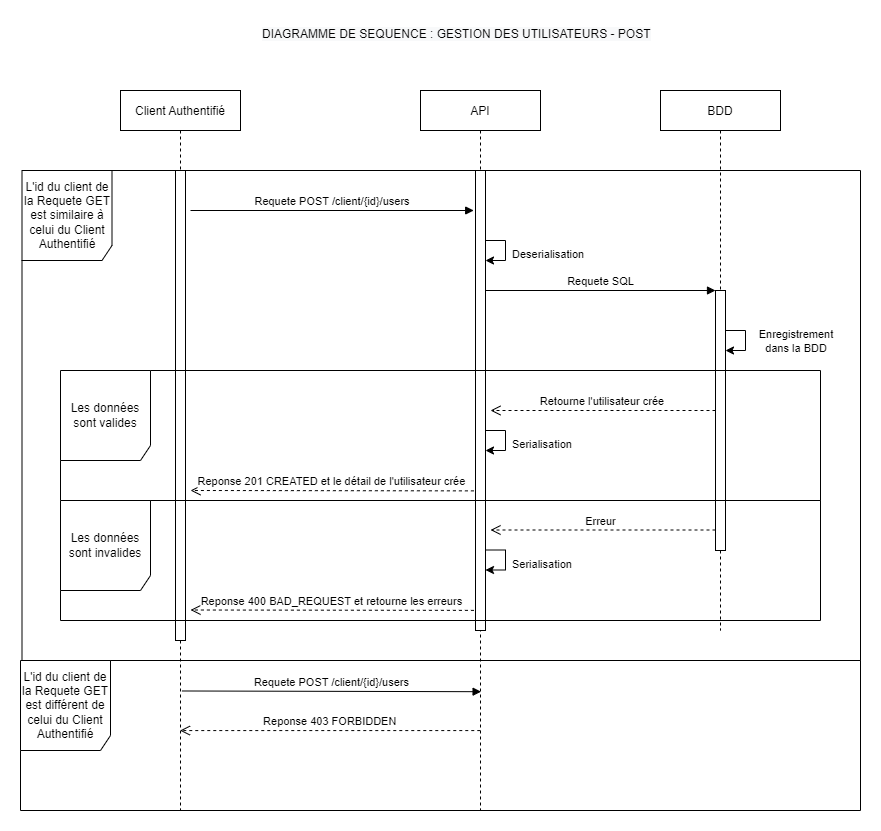
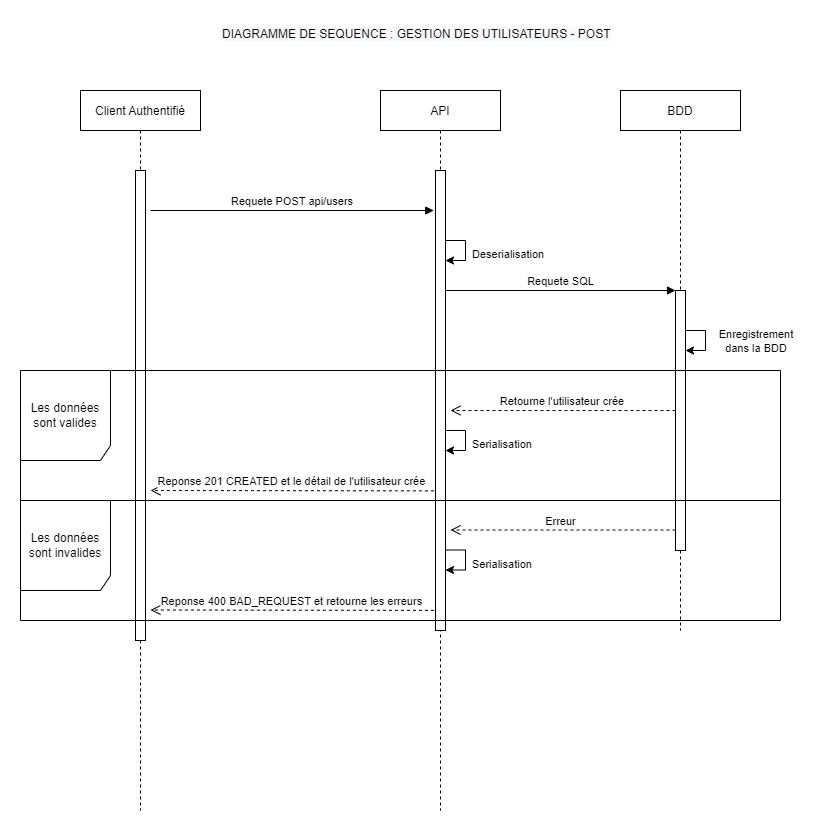
Update Diagrams UML FIX #13

diff --git a/src/Controller/UserController.php b/src/Controller/UserController.php
@@ -17,15 +17,21 @@ use Symfony\Component\Validator\Validator\ValidatorInterface;
 #[Route('/api')]
 class UserController extends AbstractController
 {
-    #[Route('/users', name: 'app_collection_user', methods: ['GET'])]
-    public function list(UserRepository $userRepository): JsonResponse
+    #[Route('/users', name: 'user_list', methods: ['GET'])]
+    public function list(Request $request, UserRepository $userRepository): JsonResponse
     {
-        /* faire la pagination , et niveau 3 de Richardson ( negociation ?? ) */
-        $users = $userRepository->findBy(['client' => $this->getUser()]);
+        $page = $request->query->get('page') ?? 1 ;
+        $usersCount = $userRepository->count(['client' => $this->getUser()]);
+        $pageCount = round($usersCount/12);
+        if($usersCount % 12 != 0){$pageCount++;}
+        if ($pageCount < $request->query->get('page')) {
+            $page = 1 ;
+        }
+        $users = $userRepository->findBy(['client' => $this->getUser()], ['id' => 'ASC'], 12, ($page-1)*12);
         return $this->json($users, JsonResponse::HTTP_OK, [], ['groups' => 'list_user']);
     }
 
-    #[Route('/users/{user_id}', name: 'app_item_user', methods: ['GET'])]
+    #[Route('/users/{user_id}', name: 'user_show', methods: ['GET'])]
     #[Entity('user', options: ['id' => 'user_id'])]
     public function show(User $user): JsonResponse
     {
@@ -36,19 +42,13 @@ class UserController extends AbstractController
         return $this->json($user, JsonResponse::HTTP_OK, [], ['groups' => 'show_user']);
     }
 
-    #[Route('/users', name: 'app_create_user', methods: ['POST'])]
+    #[Route('/users', name: 'user_create', methods: ['POST'])]
     public function create(
         SerializerInterface $serializer,
         Request $request,
         EntityManagerInterface $em,
         ValidatorInterface $validator): JsonResponse
     {
-//        $data = $request->toArray();
-//        $user = new User();
-//        $user->setEmail($data['email']);
-//        $user->setFirstName($data['firstName']);
-//        $user->setLastName($data['lastName']);
-
         $externalData = $request->getContent();
         try {
             $user = $serializer->deserialize($externalData, User::class, 'json');
@@ -71,7 +71,7 @@ class UserController extends AbstractController
         }
     }
 
-    #[Route('/users/{user_id}', name: 'app_delete_user', methods: ['DELETE'])]
+    #[Route('/users/{user_id}', name: 'user_delete', methods: ['DELETE'])]
     #[Entity('user', options: ['id' => 'user_id'])]
     public function delete(User $user, EntityManagerInterface $em): JsonResponse
     {

diff --git a/src/Serializer/ProductNormalizer.php b/src/Serializer/ProductNormalizer.php
@@ -1,0 +1,44 @@
+<?php
+
+namespace App\Serializer;
+
+use App\Entity\Product;
+use Symfony\Component\Routing\Generator\UrlGeneratorInterface;
+use Symfony\Component\Serializer\Normalizer\NormalizerInterface;
+use Symfony\Component\Serializer\Normalizer\ObjectNormalizer;
+
+class ProductNormalizer implements NormalizerInterface
+{
+    private $router;
+    private $normalizer;
+
+    public function __construct(UrlGeneratorInterface $router, ObjectNormalizer $normalizer)
+    {
+        $this->router = $router;
+        $this->normalizer = $normalizer;
+    }
+
+    public function normalize($product, string $format = null, array $context = [])
+    {
+//        dd('ici');
+        $data = $this->normalizer->normalize($product, $format, $context);
+
+        // Here, add, edit, or delete some data:
+        $data['__link']['self'] = $this->router->generate('product_show', [
+            'id' => $product->getId(),
+        ], UrlGeneratorInterface::ABSOLUTE_URL);
+
+        return $data;
+    }
+
+    public function supportsNormalization($data, string $format = null, array $context = [])
+    {
+//        dd(is_array($data));
+//        dd($data instanceof Product);
+//        dump('avant dump');
+//        dump($data instanceof Product);
+//        dump('apres dump');
+//        return $data instanceof Product;
+        return false;
+    }
+}

diff --git a/src/Controller/ProductController.php b/src/Controller/ProductController.php
@@ -12,13 +12,14 @@ use Symfony\Component\Routing\Annotation\Route;
 #[Route('/api')]
 class ProductController extends AbstractController
 {
-    #[Route('/products', name: 'app_collection_product', methods: ['GET'])]
+    #[Route('/products', name: 'product_list', methods: ['GET'])]
     public function list(Request $request, ProductRepository $productRepository): JsonResponse
     {
         // niveau 3 de Richardson : pour chaque phone mettre un lien -> get item
         $page = $request->query->get('page') ?? 1 ;
         $productsCount = $productRepository->count([]);
         $pageCount = round($productsCount/12);
+        if($productsCount % 12 != 0){$pageCount++;}
         if ($pageCount < $request->query->get('page')) {
             $page = 1 ;
         }
@@ -27,7 +28,7 @@ class ProductController extends AbstractController
         return $this->json($products, JsonResponse::HTTP_OK, [], ['groups' => 'list_product']);
     }
 
-    #[Route('/products/{id}', name: 'app_item_product', methods: ['GET'])]
+    #[Route('/products/{id}', name: 'product_show', methods: ['GET'])]
     public function show(Product $product): JsonResponse
     {
         return $this->json($product, JsonResponse::HTTP_OK, [], ['groups' => 'show_product']);

diff --git a/src/Serializer/UserNormalizer.php b/src/Serializer/UserNormalizer.php
@@ -1,0 +1,38 @@
+<?php
+
+namespace App\Serializer;
+
+use App\Entity\User;
+use Symfony\Component\Routing\Generator\UrlGeneratorInterface;
+use Symfony\Component\Serializer\Normalizer\NormalizerInterface;
+use Symfony\Component\Serializer\Normalizer\ObjectNormalizer;
+
+class UserNormalizer implements NormalizerInterface
+{
+    private $router;
+    private $normalizer;
+
+    public function __construct(UrlGeneratorInterface $router, ObjectNormalizer $normalizer)
+    {
+        $this->router = $router;
+        $this->normalizer = $normalizer;
+    }
+
+    public function normalize($user, string $format = null, array $context = [])
+    {
+        $data = $this->normalizer->normalize($user, $format, $context);
+
+        // Here, add, edit, or delete some data:
+        $data['__link']['self'] = $this->router->generate('user_show', [
+            'user_id' => $user->getId(),
+        ], UrlGeneratorInterface::ABSOLUTE_URL);
+
+        return $data;
+    }
+
+    public function supportsNormalization($data, string $format = null, array $context = [])
+    {
+//        return $data instanceof User;
+        return false;
+    }
+}
